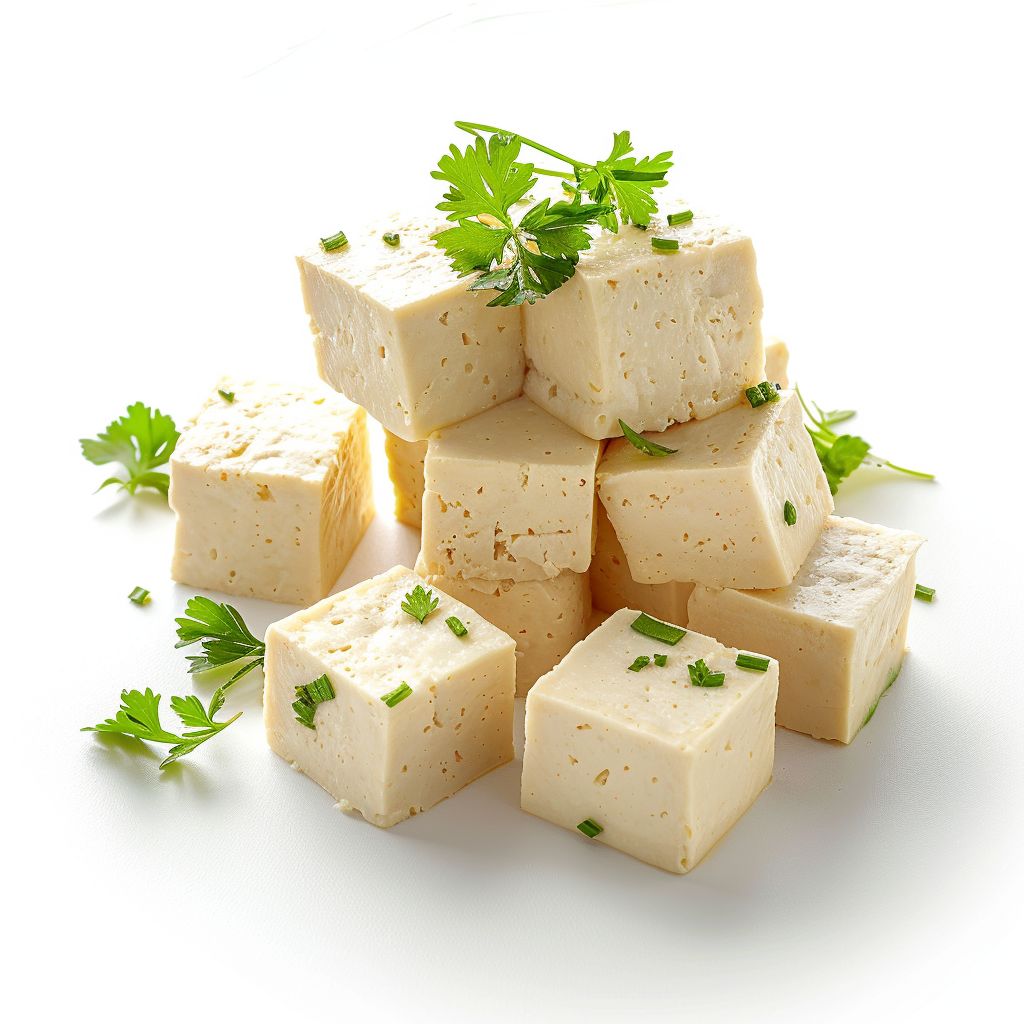
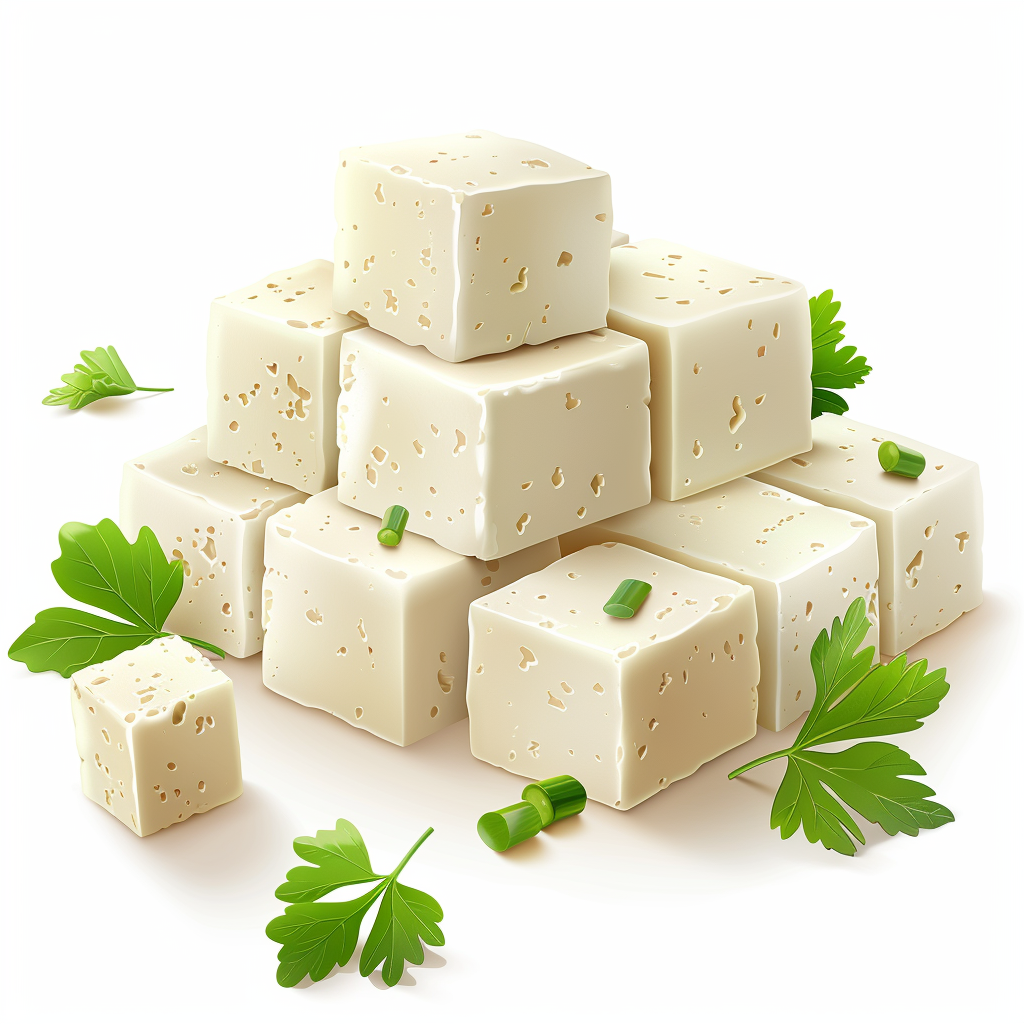
initial load loading state spinner

diff --git a/components/data/ingredients.js b/components/data/ingredients.js
@@ -87,6 +87,7 @@ import spinach from '../../assets/spinach.png';
 import squash from '../../assets/squash.png';
 import strawberries from '../../assets/strawberries.png';
 import thyme from '../../assets/thyme.png';
+import tofu from '../../assets/tofu.png';
 import tomatoes from '../../assets/tomatoes.png';
 import turnips from '../../assets/turnips.png';
 import turkey from '../../assets/turkey.png';
@@ -6926,81 +6927,81 @@ export const ingredients = [
       'Zucchini',
     ],
   },
-  // {
-  //   item_id: '8429ffc7-1139-4b7c-8812-ed36faad61e5',
-  //   name: 'Tofu',
-  //   img: tofu,
-  //   exp_int: 7,
-  //   category: 'vegetables',
-  //   storage_tip:
-  //     "After opened, keep submerged in water in an airtight container. Change water daily.  If you have extra tofu that you won't use within a week, you can freeze it. Simply drain, cut into cubes, and freeze in airtight container.",
-  //   subItems: [
-  //     {name: 'Silken Tofu', item_id: 'c15aa87b-0f36-493b-a6cb-51eb25eddeaf'},
-  //     {name: 'Firm Tofu', item_id: '63e8b2d3-8777-4a72-96ce-8c1af095ab72'},
-  //     {
-  //       name: 'Extra Firm Tofu',
-  //       item_id: '07af4a8f-1da3-4dbb-b5c7-8b93b6622a0f',
-  //     },
-  //     {name: 'Soft Tofu', item_id: 'af9f3a18-2c50-47eb-9613-bf952fd8b360'},
-  //     {name: 'Smoked Tofu', item_id: 'ceabab22-70b6-4059-b1c0-7d7261e74a8f'},
-  //     {name: 'Other', item_id: '7ec8d0e2-2e2e-4ee1-8c06-8db4399fb0f4'},
-  //   ],
-  //   techniques: 'bake, broil, grill, poach, raw, sauté',
-  //   compatibles: [
-  //     'Allspice',
-  //     'Almonds, esp. toasted',
-  //     'Apricots',
-  //     'Beverages, esp. cocktails',
-  //     'Blackberries',
-  //     'Blueberries',
-  //     'Brandy',
-  //     'BUTTER, unsalted',
-  //     'Buttermilk',
-  //     'Caramel',
-  //     'Champagne',
-  //     'Cherries',
-  //     'Chicken',
-  //     'Chocolate',
-  //     'Cinnamon',
-  //     'Cranberries',
-  //     'Cream and ice cream',
-  //     'Custard',
-  //     'Desserts and dessert sauces',
-  //     'Figs',
-  //     'Ginger, esp. fresh',
-  //     'Hazelnuts',
-  //     'Honey',
-  //     'Kirsch',
-  //     'Lemon: juice, zest',
-  //     'Maple syrup',
-  //     'Mascarpone',
-  //     'Milk, sweetened condensed',
-  //     'Mint (garnish)',
-  //     'Nectarines',
-  //     'Nutmeg',
-  //     'Oatmeal',
-  //     'Onions',
-  //     'Orange, juice',
-  //     'Orange liqueur',
-  //     'Peach liqueur (e.g., schnapps)',
-  //     'Pecans',
-  //     'Pepper, black',
-  //     'Pistachios',
-  //     'Plums (compatible fruit)',
-  //     'Pork',
-  //     'Raspberries',
-  //     'Salads, fruit',
-  //     'Salsas, fruit',
-  //     'Soups, esp. chilled',
-  //     'Sour cream',
-  //     'Strawberries',
-  //     'SUGAR: brown, white',
-  //     'Vanilla',
-  //     'Vinegar, cider',
-  //     'WINE: red, fruity, sweet, or white: Merlot, Moscato d’Asti, Muscat, Rosé, Sauternes, Vin Santo, Zinfandel',
-  //     'Yogurt',
-  //   ],
-  // },
+  {
+    item_id: '8429ffc7-1139-4b7c-8812-ed36faad61e5',
+    name: 'Tofu',
+    img: tofu,
+    exp_int: 7,
+    category: 'vegetables',
+    storage_tip:
+      "After opened, keep submerged in water in an airtight container. Change water daily.  If you have extra tofu that you won't use within a week, you can freeze it. Simply drain, cut into cubes, and freeze in airtight container.",
+    // subItems: [
+    //   {name: 'Silken Tofu', item_id: 'c15aa87b-0f36-493b-a6cb-51eb25eddeaf'},
+    //   {name: 'Firm Tofu', item_id: '63e8b2d3-8777-4a72-96ce-8c1af095ab72'},
+    //   {
+    //     name: 'Extra Firm Tofu',
+    //     item_id: '07af4a8f-1da3-4dbb-b5c7-8b93b6622a0f',
+    //   },
+    //   {name: 'Soft Tofu', item_id: 'af9f3a18-2c50-47eb-9613-bf952fd8b360'},
+    //   {name: 'Smoked Tofu', item_id: 'ceabab22-70b6-4059-b1c0-7d7261e74a8f'},
+    //   {name: 'Other', item_id: '7ec8d0e2-2e2e-4ee1-8c06-8db4399fb0f4'},
+    // ],
+    techniques: 'bake, broil, grill, poach, raw, sauté',
+    compatibles: [
+      'Allspice',
+      'Almonds, esp. toasted',
+      'Apricots',
+      'Beverages, esp. cocktails',
+      'Blackberries',
+      'Blueberries',
+      'Brandy',
+      'BUTTER, unsalted',
+      'Buttermilk',
+      'Caramel',
+      'Champagne',
+      'Cherries',
+      'Chicken',
+      'Chocolate',
+      'Cinnamon',
+      'Cranberries',
+      'Cream and ice cream',
+      'Custard',
+      'Desserts and dessert sauces',
+      'Figs',
+      'Ginger, esp. fresh',
+      'Hazelnuts',
+      'Honey',
+      'Kirsch',
+      'Lemon: juice, zest',
+      'Maple syrup',
+      'Mascarpone',
+      'Milk, sweetened condensed',
+      'Mint (garnish)',
+      'Nectarines',
+      'Nutmeg',
+      'Oatmeal',
+      'Onions',
+      'Orange, juice',
+      'Orange liqueur',
+      'Peach liqueur (e.g., schnapps)',
+      'Pecans',
+      'Pepper, black',
+      'Pistachios',
+      'Plums (compatible fruit)',
+      'Pork',
+      'Raspberries',
+      'Salads, fruit',
+      'Salsas, fruit',
+      'Soups, esp. chilled',
+      'Sour cream',
+      'Strawberries',
+      'SUGAR: brown, white',
+      'Vanilla',
+      'Vinegar, cider',
+      'WINE: red, fruity, sweet, or white: Merlot, Moscato d’Asti, Muscat, Rosé, Sauternes, Vin Santo, Zinfandel',
+      'Yogurt',
+    ],
+  },
   {
     item_id: '10043109-0a9b-415e-a8e4-e53571267f30',
     name: 'Tomatoes',

diff --git a/components/Dashboard.js b/components/Dashboard.js
@@ -43,6 +43,7 @@ const Dashboard = ({route}) => {
   const [filteredItems, setFilteredItems] = useState(items);
   const [availableCategories, setAvailableCategories] = useState(['all']);
   const [deletingItemId, setDeletingItemId] = useState(null);
+  const [updatingItemId, setUpdatingItemId] = useState(null);
 
   const navigation = useNavigation();
   const userEmail = auth.currentUser?.email;
@@ -285,6 +286,7 @@ const Dashboard = ({route}) => {
   }
 
   const updateExpDate = async (item, newDate) => {
+    setUpdatingItemId(item._id);
     const formattedDate = newDate.toISOString().split('T')[0];
 
     try {
@@ -314,6 +316,8 @@ const Dashboard = ({route}) => {
       }
     } catch (error) {
       console.error('Error updating expiration date:', error.message);
+    } finally {
+      setUpdatingItemId(null);
     }
   };
 
@@ -483,7 +487,7 @@ const Dashboard = ({route}) => {
           style={styles.item}>
           <Image source={itemImage} style={styles.itemImage} />
           <View style={styles.itemTextContainer}>
-            {deletingItemId === item._id ? (
+            {deletingItemId === item._id || updatingItemId === item._id ? (
               <ActivityIndicator size="medium" color="#0000ff" />
             ) : (
               <>
@@ -626,8 +630,15 @@ const Dashboard = ({route}) => {
 
         <Modal
           isVisible={isAddItemModalVisible}
-          onBackdropPress={() => setAddItemModalVisible(false)}>
+          onBackdropPress={() => setAddItemModalVisible(false)}
+          style={{alignItems: 'center'}} // Center the modal
+        >
           <View style={styles.modalContent}>
+            <TouchableOpacity
+              style={{position: 'absolute', top: 10, right: 10}} // Position the close icon
+              onPress={() => setAddItemModalVisible(false)}>
+              <AntDesignIcon name="close" size={24} color="black" />
+            </TouchableOpacity>
             <AntDesignIcon name="edit" size={30} color="black" />
             <Text style={styles.modalHeader}>Add Custom Item</Text>
             <TextInput

diff --git a/components/Register.js b/components/Register.js
@@ -51,18 +51,21 @@ const Register = () => {
         <Text style={styles.titleText}>Sign up for an account!</Text>
         <TextInput
           placeholder="First Name"
+          placeholderTextColor={'black'}
           value={name}
           onChangeText={text => setName(text)}
           style={styles.input}
         />
         <TextInput
           placeholder="Email Address"
+          placeholderTextColor={'black'}
           value={email}
           onChangeText={text => setEmail(text)}
           style={styles.input}
         />
         <TextInput
           placeholder="Password"
+          placeholderTextColor={'black'}
           value={password}
           onChangeText={text => setPassword(text)}
           style={styles.input}

diff --git a/components/styles/dashboard.js b/components/styles/dashboard.js
@@ -128,6 +128,10 @@ export default StyleSheet.create({
     alignItems: 'center',
     borderRadius: 12,
     padding: 20,
+    position: 'absolute', // Use absolute positioning to place the modal
+    top: '15%', // Adjust this to move the modal higher, 25% from the top
+    left: 0,
+    right: 0,
   },
   modalHeader: {
     marginVertical: 10,
